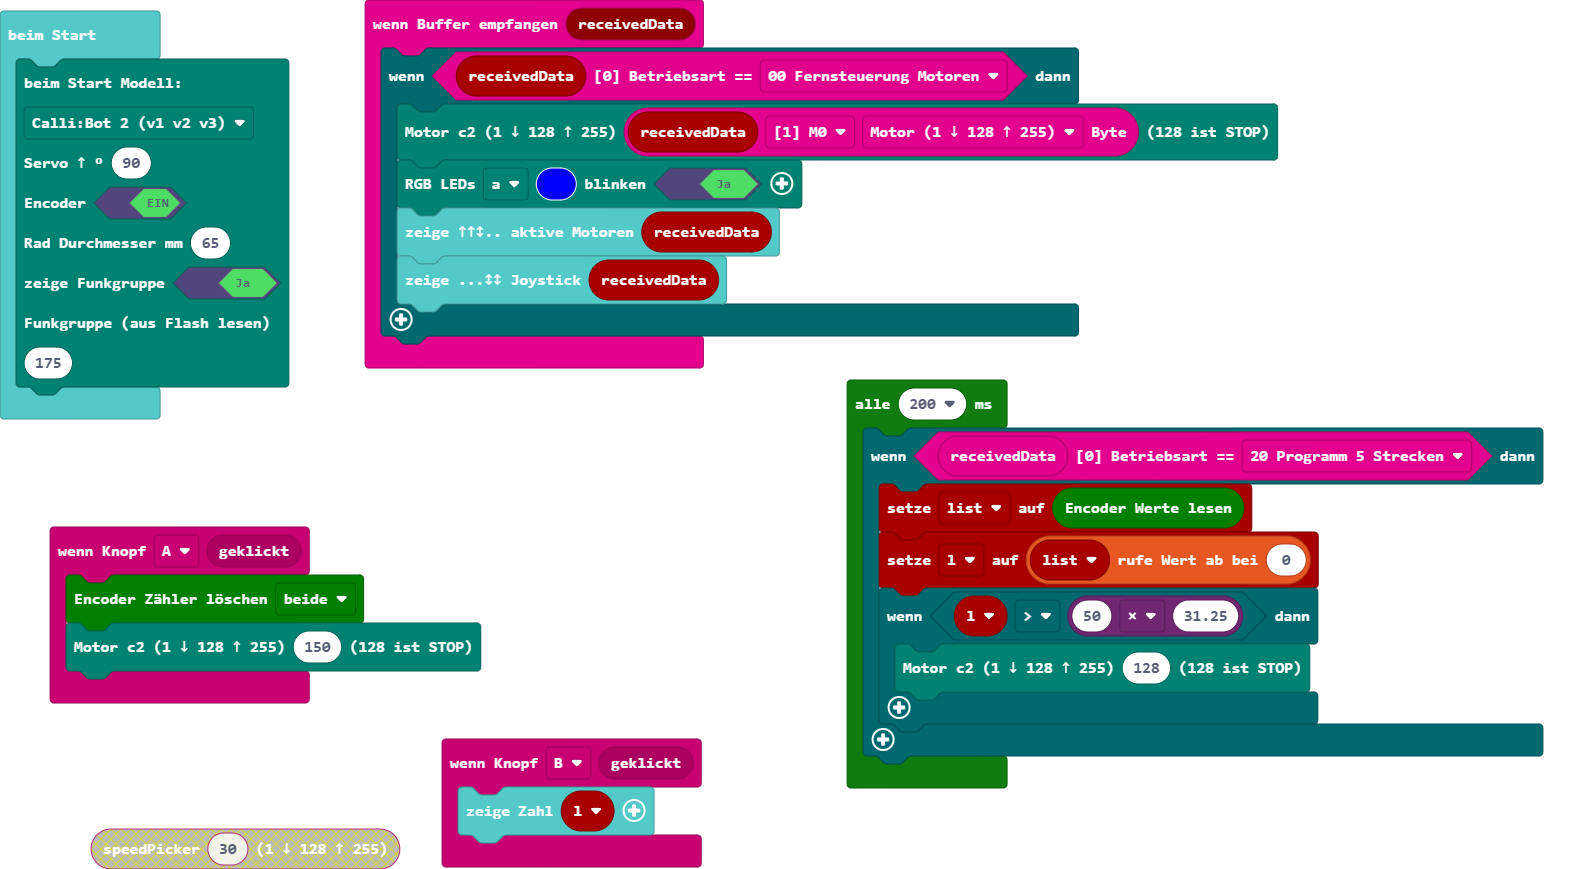
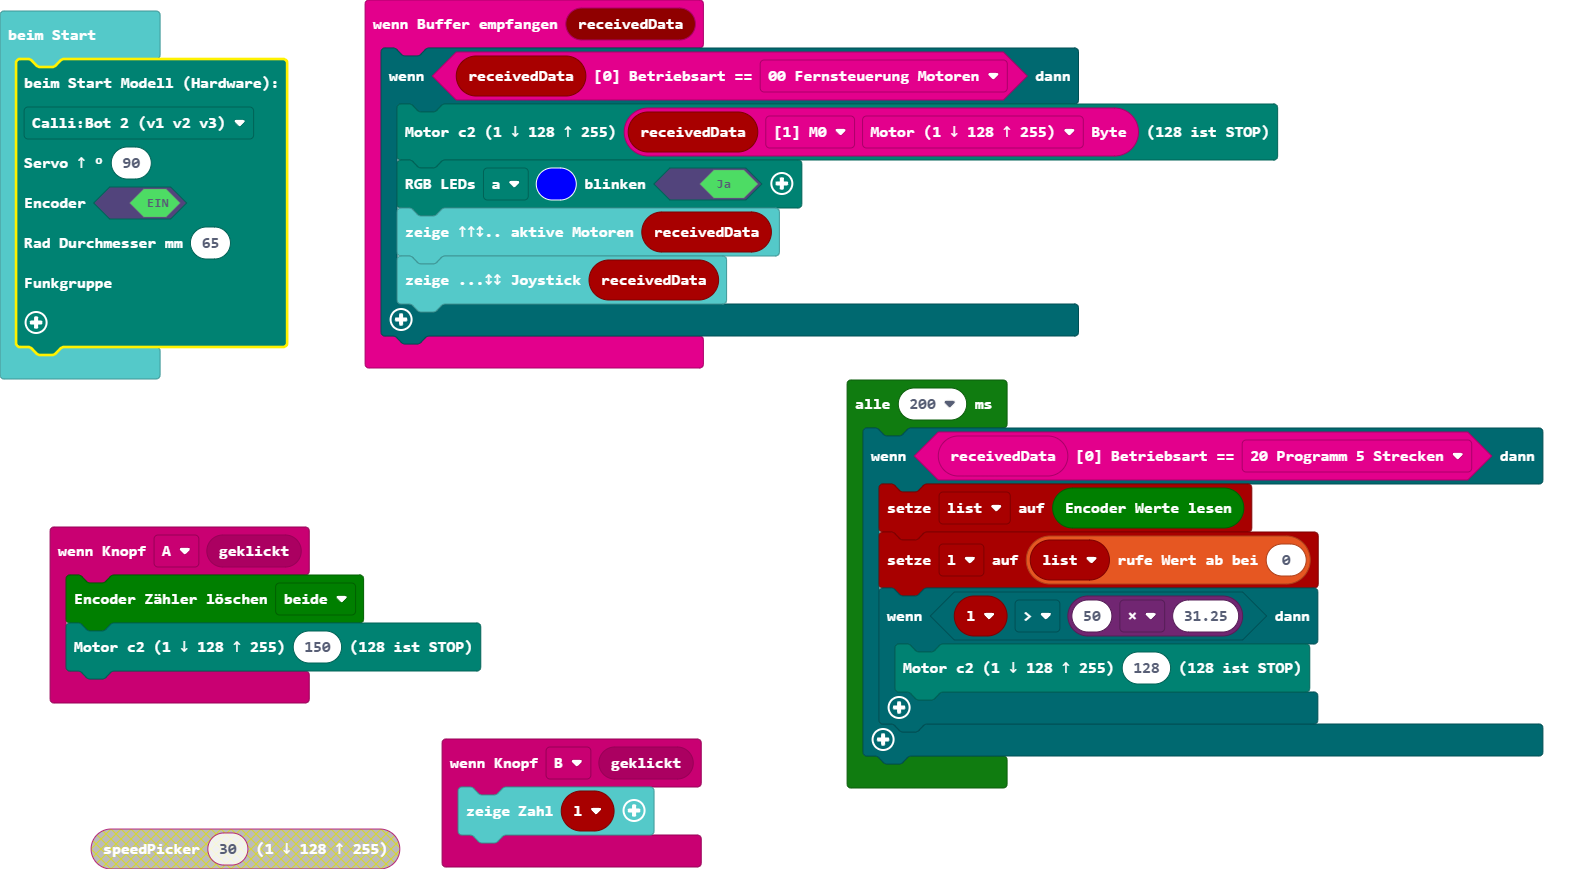
Aktualisiere pxt.json, main.blocks, main.ts

Changed region(s): [[0.0, 0.0621, 0.1843, 0.4971]]

diff --git a/main.ts b/main.ts
@@ -16,12 +16,10 @@ radio.onReceivedData(function (receivedData) {
 let list: number[] = []
 let l = 0
 receiver.beimStart(
-receiver.erModell.calli2bot,
+receiver.eHardware.calli2bot,
 90,
 true,
-65,
-true,
-175
+65
 )
 loops.everyInterval(200, function () {
     if (radio.isBetriebsart(radio.radio_receivedBuffer19(), radio.e0Betriebsart.p2)) {
